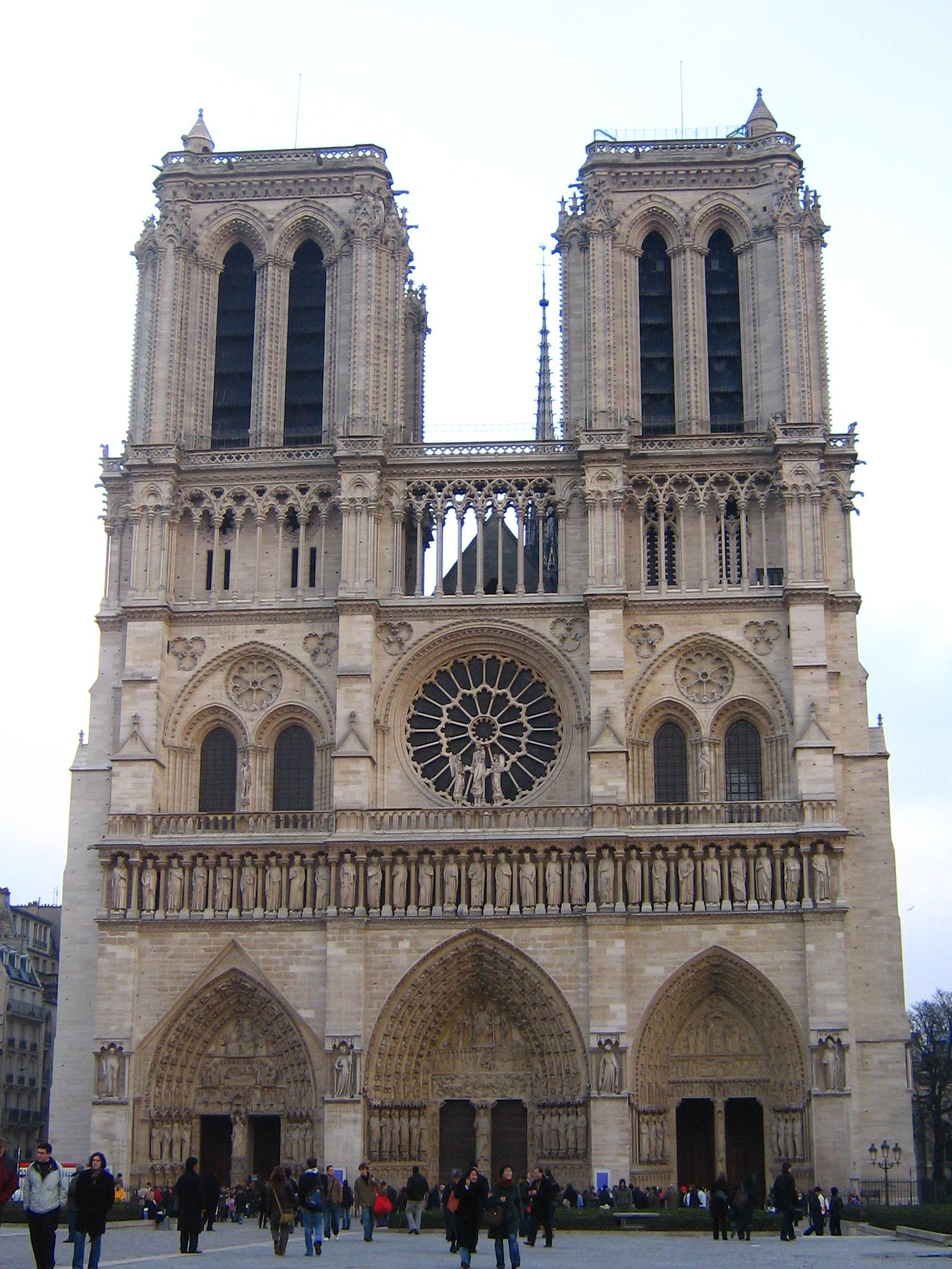
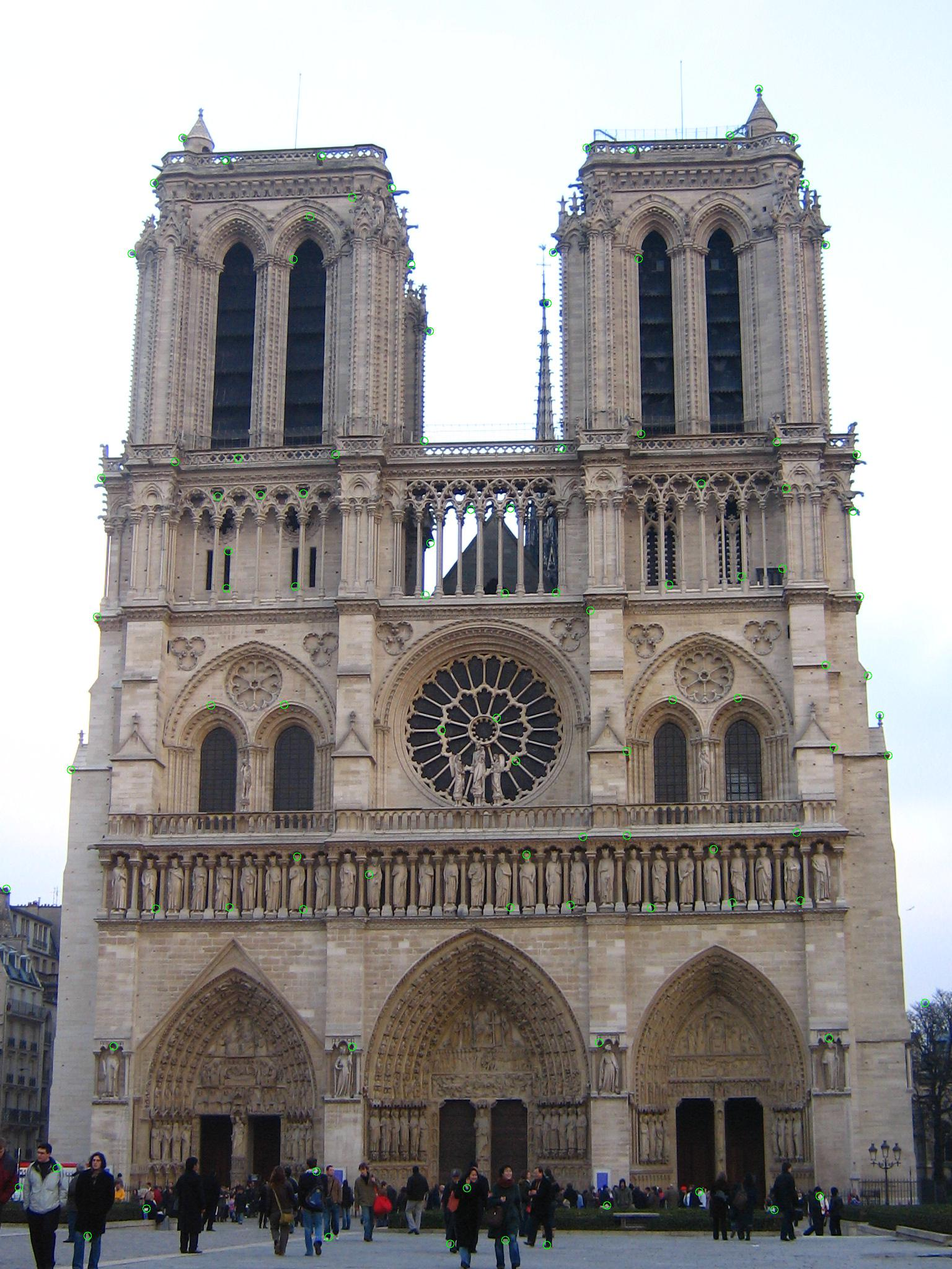
Added initial ANMS algorithm

diff --git a/lab4/lab4.py b/lab4/lab4.py
@@ -46,21 +46,25 @@ def filter_maxima(corners, result):
 def anms_filter(cornersPositions, result):
     maximas = []
     cornerValues = result[tuple(cornersPositions.T)]
-    corners = np.hstack((corners, cornerValues[:,None]))
+    corners = np.hstack((cornersPositions, cornerValues[:,None]))
     cornersSorted = corners[corners[:,2].argsort()][::-1]
-    cornersRadiuses = []
     # NOTE: If radius == 0.0, then it's infinity! (?)
+    cornersRadiuses = []
     for (index, p) in enumerate(cornersSorted):
         print("index = %d" % index)
         bigger = cornersSorted[0:index]
-        r = np.linalg.norm(bigger[:,0:2] - p[0:2])
-        cornersRadiuses.append(r)
+        if np.any(bigger):
+            r = np.amin(np.linalg.norm(bigger[:,0:2] - p[0:2], axis = 1))
+            cornersRadiuses.append(r)
+        else:
+            cornersRadiuses.append(np.inf)
     cornersRadiuses = np.array(cornersRadiuses)
-    # Potem mozna te liste posortowac i wiemy ze po prostu musimy brac ja cala od gory
-    # for (y, x) in corners:
-
-
-    return np.array(maximas)
+    cornersWithRadiuses = np.hstack((cornersSorted, cornersRadiuses[:,None]))
+    cornersRadiusesSorted = cornersWithRadiuses[cornersWithRadiuses[:,3].argsort()][::-1]
+    # Brakuje tego ogranicznika na 0.9 wartosci wektora
+    # Moznaby najpierw zrobic zwykle filter_maxima, na jakies bliskie sasiedztwo, a dopiero potem ANMS - ale za to zmniejszyc threshold
+    # Dodac rysowanie promienia gdzie sa te punkty maximum
+    return cornersRadiusesSorted[0:100,0:2]
 
 
 def harrisCornerDetector(filename, gaussianDerivativeSigma = 3.0, gaussianFilterSigma = 3.0):
@@ -98,11 +102,11 @@ def harrisCornerDetector(filename, gaussianDerivativeSigma = 3.0, gaussianFilter
 
     print("Finding maximas...")
     cornersPositions = np.argwhere(result > TRESHOLD)
-    maximaCorners = filter_maxima(corners, result)
-    print("Filtered from %d to %d points" % (len(corners), len(maximaCorners)))
+    maximaCorners = filter_maxima(cornersPositions, result)
+    print("Filtered from %d to %d points" % (len(cornersPositions), len(maximaCorners)))
 
-    maximaCornersAnms = anms_filter(corners, result)
-    print("Filtered from %d to %d points" % (len(corners), len(maximaCornersAnms)))
+    maximaCornersAnms = anms_filter(cornersPositions, result)
+    print("Filtered from %d to %d points" % (len(cornersPositions), len(maximaCornersAnms)))
 
     drawCorners(filename, maximaCorners, "-5-with-corners")
     drawCorners(filename, maximaCornersAnms, "-5-with-corners-anms")
